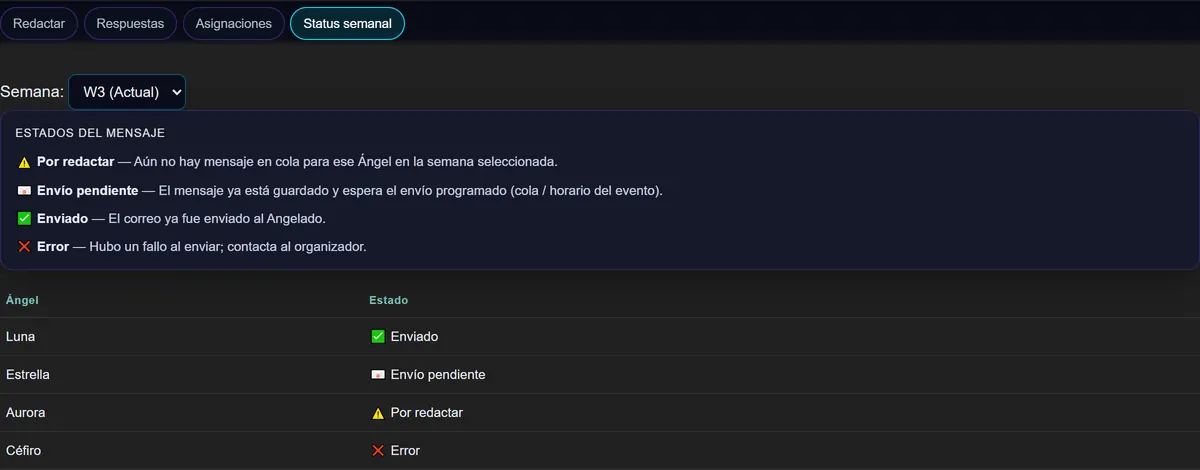
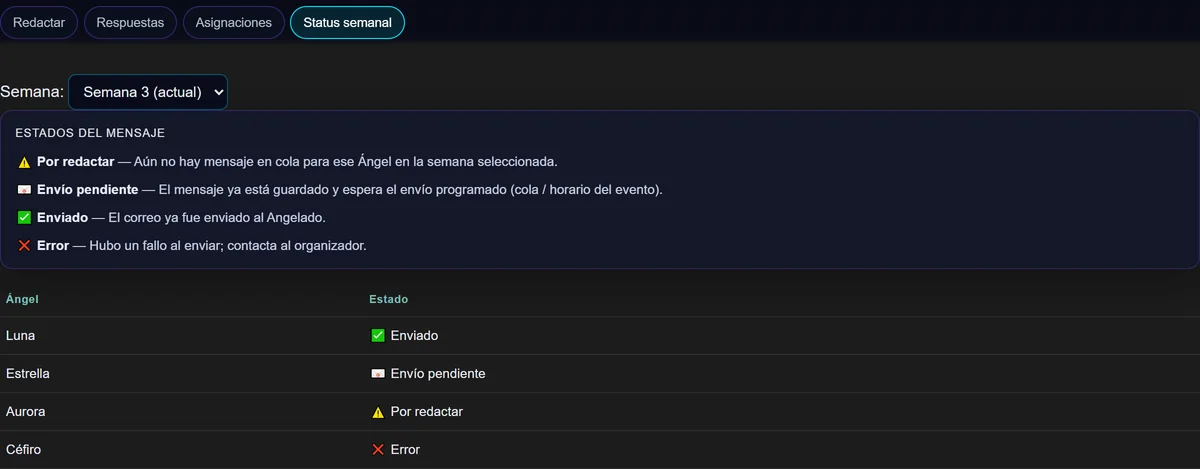
docs(angeles): capturas de la pestaña «Mensajes» y actualización de las que quedaron desfasadas
La página pública ya describía la pestaña nueva, pero sin captura. Se añade
la suya y se rehacen las que el cambio dejó desactualizadas.

Nueva:
- capitanes-mensajes.webp — lista de Ángeles con su estado semanal y el
  mensaje seleccionado en la Vista Previa. Se enlaza desde la sección
  «Mensajes de la semana» del Panel Capitanes.

Rehechas porque el cambio anterior las volvió mentira:
- capitanes-diseno-email, capitanes-tabla-angeles, capitanes-mantenimiento —
  la barra de pestañas ahora tiene cuatro chips, no tres.
- capitanes-mantenimiento y angeles-status-semanal — las semanas se muestran
  como «Semana 3» y «Previo al inicio», ya no como «W3» / «W0».

Tomadas con el mismo arnés de demostración de siempre (carga angels.html y
sustituye window.CPMAngelsApi por respuestas de ejemplo), reutilizando el
elenco ficticio de las capturas anteriores —Luna, Estrella, Aurora, Céfiro—
para que todas las imágenes cuenten el mismo proyecto de ejemplo. Mismo
formato: PNG a 2400 px en docs/ y webp a 1200 px en imagenes/.

Se corrigen de paso los atributos width/height de las cuatro imágenes
rehechas, que diferían en 1–3 px de la altura real y provocaban un salto de
layout mínimo al cargar.

diff --git a/angeles-secretos.html b/angeles-secretos.html
@@ -55,7 +55,7 @@
             <li><strong>Descarga HTML</strong> de la plantilla renderizada y <strong>Guardar diseño</strong> para dejarla fija en el proyecto.</li>
         </ul>
         <figure class="doc-figure">
-            <img src="imagenes/angeles/capitanes-diseno-email.webp" alt="Editor de diseño del email con la vista previa a la derecha" loading="lazy" decoding="async" width="1200" height="1553">
+            <img src="imagenes/angeles/capitanes-diseno-email.webp" alt="Editor de diseño del email con la vista previa a la derecha" loading="lazy" decoding="async" width="1200" height="1552">
             <figcaption class="tech-font">Diseño email — lo que el Capi ve es exactamente lo que recibe el participante.</figcaption>
         </figure>
 
@@ -67,7 +67,7 @@
             <li>El ciclo semanal y el día de envío se fijan al crear el proyecto; a partir de ahí la app cuenta las semanas sola.</li>
         </ul>
         <figure class="doc-figure">
-            <img src="imagenes/angeles/capitanes-tabla-angeles.webp" alt="Tabla editable de ángeles y angelados" loading="lazy" decoding="async" width="1200" height="393">
+            <img src="imagenes/angeles/capitanes-tabla-angeles.webp" alt="Tabla editable de ángeles y angelados" loading="lazy" decoding="async" width="1200" height="391">
             <figcaption class="tech-font">Ángeles — la asignación de parejas se guarda aquí, no en una hoja suelta.</figcaption>
         </figure>
 
@@ -79,6 +79,10 @@
             <li>Si ese Ángel todavía no ha redactado, la vista previa lo dice sin rodeos.</li>
             <li>Selector de semana para revisar semanas anteriores sin salir de la pestaña, y descarga del mensaje en HTML.</li>
         </ul>
+        <figure class="doc-figure">
+            <img src="imagenes/angeles/capitanes-mensajes.webp" alt="Lista de ángeles con su estado semanal y el mensaje seleccionado en la vista previa" loading="lazy" decoding="async" width="1200" height="833">
+            <figcaption class="tech-font">Mensajes — el Capi ve lo que se va a enviar, no solo que existe.</figcaption>
+        </figure>
 
         <h4 class="doc-h3">Mantenimiento y cola de envíos</h4>
         <ul class="doc-list">
@@ -88,7 +92,7 @@
             <li><strong>Ejecutar cola ahora</strong> para disparar el envío sin esperar al día programado.</li>
         </ul>
         <figure class="doc-figure">
-            <img src="imagenes/angeles/capitanes-mantenimiento.webp" alt="Panel de mantenimiento con filtros y estados de la cola" loading="lazy" decoding="async" width="1200" height="382">
+            <img src="imagenes/angeles/capitanes-mantenimiento.webp" alt="Panel de mantenimiento con filtros y estados de la cola" loading="lazy" decoding="async" width="1200" height="380">
             <figcaption class="tech-font">Mantenimiento — control operativo real, no una caja negra.</figcaption>
         </figure>
     </section>
@@ -138,7 +142,7 @@
             <li class="is-error">❌ Error</li>
         </ul>
         <figure class="doc-figure">
-            <img src="imagenes/angeles/angeles-status-semanal.webp" alt="Tabla de estado semanal por ángel con leyenda" loading="lazy" decoding="async" width="1200" height="470">
+            <img src="imagenes/angeles/angeles-status-semanal.webp" alt="Tabla de estado semanal por ángel con leyenda" loading="lazy" decoding="async" width="1200" height="469">
             <figcaption class="tech-font">Status semanal — nadie tiene que preguntar si su mensaje salió.</figcaption>
         </figure>
 

diff --git a/docs/angeles-funciones.md b/docs/angeles-funciones.md
@@ -67,6 +67,7 @@ dejarla fija en el proyecto. Lo que el Capi ve es exactamente lo que recibirá e
   semanas sola.
 
 ### 1.3 Mensajes de la semana (lista de Ángeles + vista previa)
+![Mensajes de la semana](angeles-capturas/08b-organizador-mensajes.png)
 
 Vista central para revisar, sin salir del panel, qué escribió cada quien:
 
